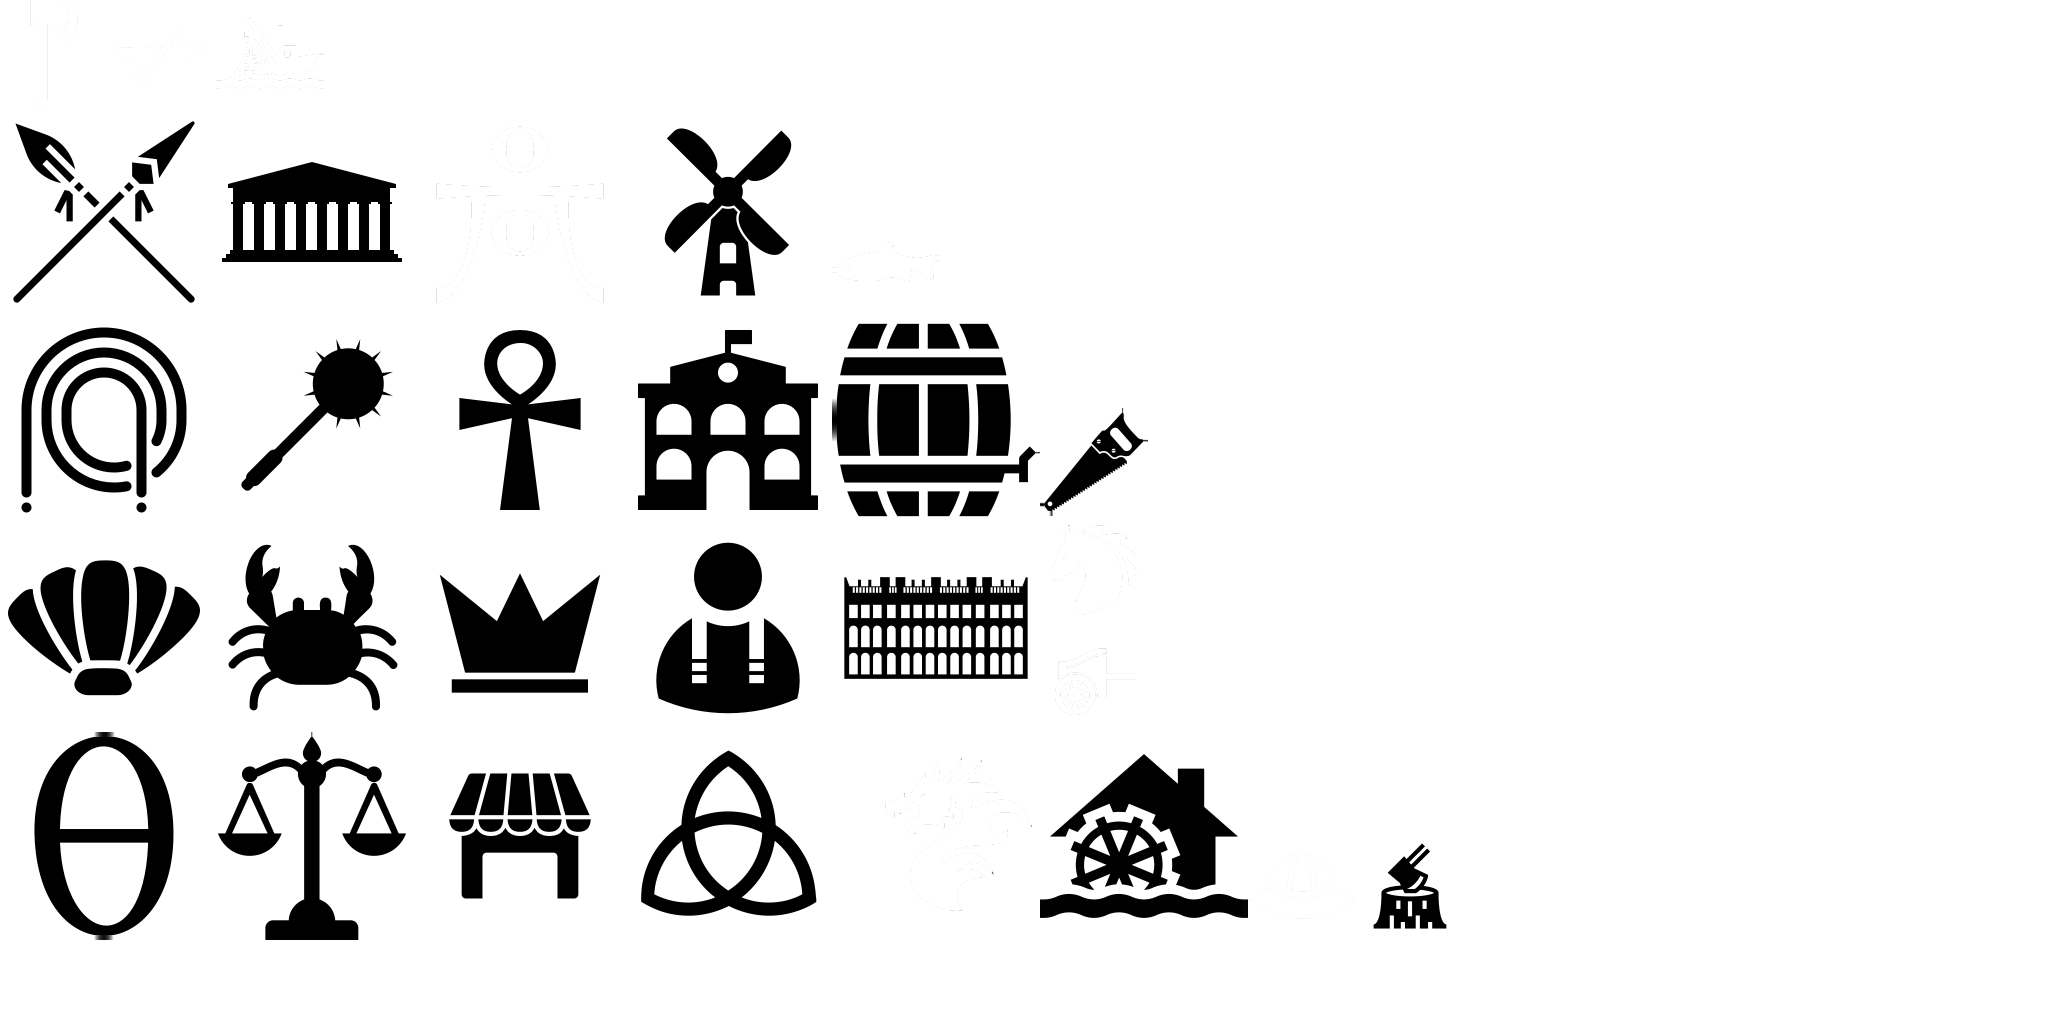
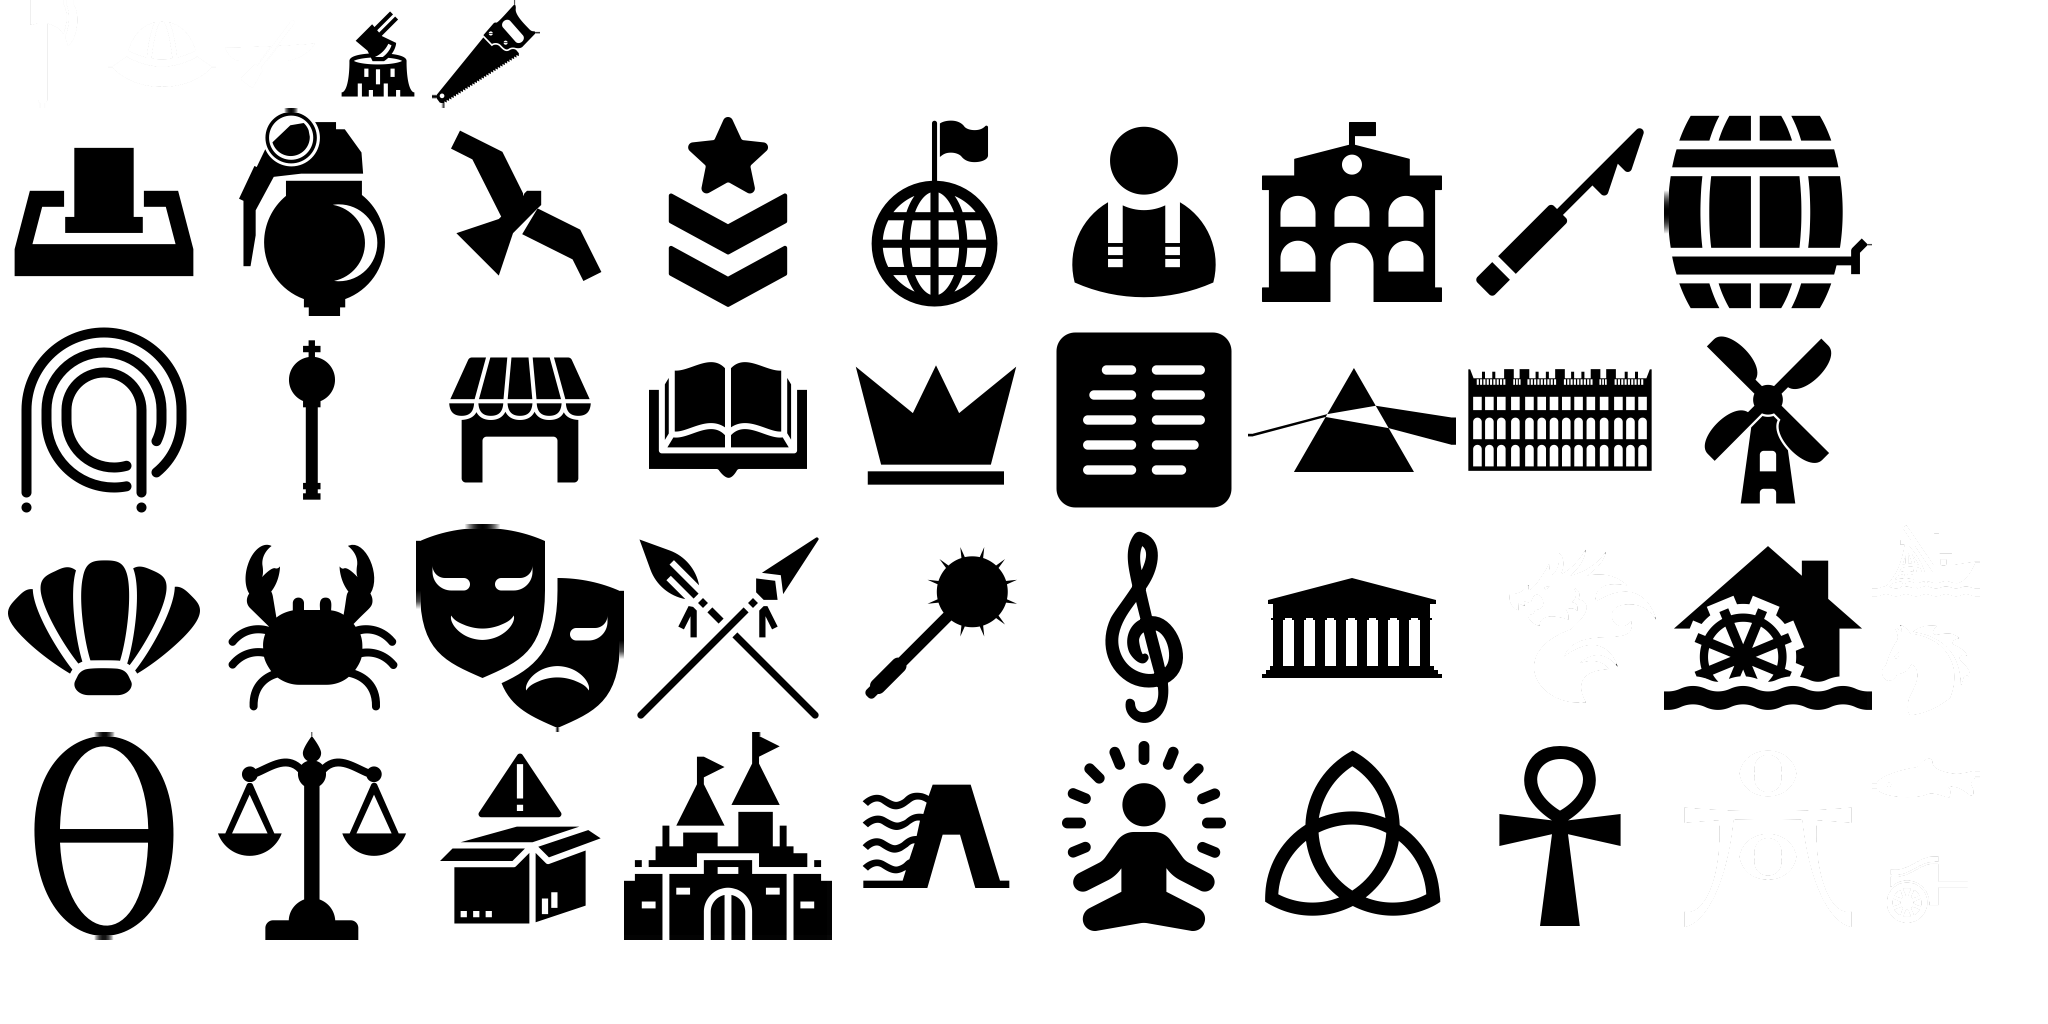
Added all missing images

diff --git a/README.md b/README.md
@@ -6,6 +6,31 @@ A Civ IV mod for Unciv
 
 All images are from The Noun Project, Creative Commons, unless otherwise specified
 
-- [University](https://thenounproject.com/icon/university-2908697/) by MRK from NounProject.com for University of Sankore
+
+- [University](https://thenounproject.com/icon/university-2908697/) by MRK for University of Sankore
 - [Palace Of Versailles](https://thenounproject.com/icon/palace-of-versailles-2322278/) by Phạm Thanh Lộc from NounProject.com for Versailles
 - [Grocery store](https://thenounproject.com/icon/grocery-store-4116484/) by IcoLabs for Grocer
+- [Levees](https://thenounproject.com/icon/levees-2381597/) by coloripop for Levee
+- [Customs declaration](https://thenounproject.com/icon/customs-declaration-2002091/) by dDara for Customs House
+  
+
+- [Harpoon](https://thenounproject.com/icon/harpoon-2152678/) by Deemak Daksina for Whaling Boats
+- [Oil Well](https://thenounproject.com/icon/oil-well-2052285/) by Vectors Market
+- [Forest](https://thenounproject.com/icon/forest-1335311/) by Aom Am for Forest Preserve
+
+
+- [Grenade](https://thenounproject.com/icon/grenade-1082454/) by Viktor Korobkov for Grenadier 
+
+
+- [Military](https://thenounproject.com/icon/military-3969040/) by Adrien Coquet for Military Tradition
+- [Music icon](https://thenounproject.com/icon/music-1735591/) by Daria Moskvina for Music
+- [Drama](https://thenounproject.com/icon/theatre-drama-1131937/) by Rflor for Drama
+- [Castle](https://thenounproject.com/icon/castle-668057/) by Hea Poh Lin for Feudalism
+- [Prism](https://thenounproject.com/icon/prism-17108/) by Santiago Arias for Scientific Method
+- [Paper](https://thenounproject.com/icon/paper-4574286/) by ghufronagustian
+- [Nationalism](https://thenounproject.com/icon/nationalism-3098507/) by corpus delicti
+- [Scepter](https://thenounproject.com/icon/scepter-4431536/) by Wuppdidu for Divine Right
+- [Liberalism](https://thenounproject.com/icon/liberalism-1528359/) by Valerio Poltrini
+- [Democracy](https://thenounproject.com/icon/democracy-2680240/) by Fahmi
+- [Literature](https://thenounproject.com/icon/literature-1433796/) by iconesia
+- [Meditation](https://thenounproject.com/icon/meditation-2821197/) by Adrien Coquet
